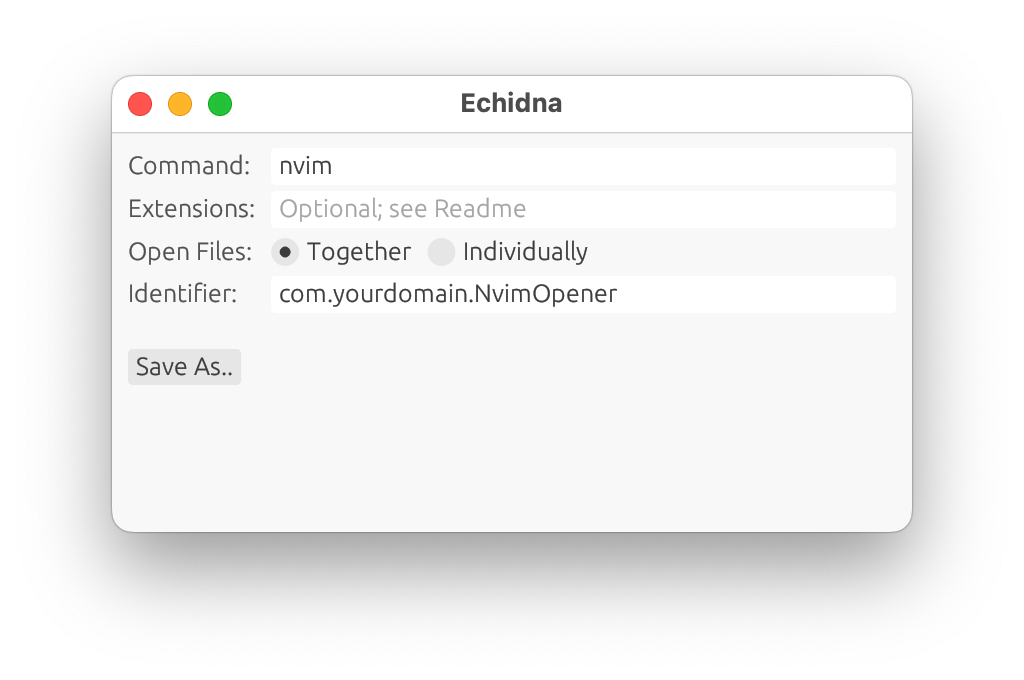
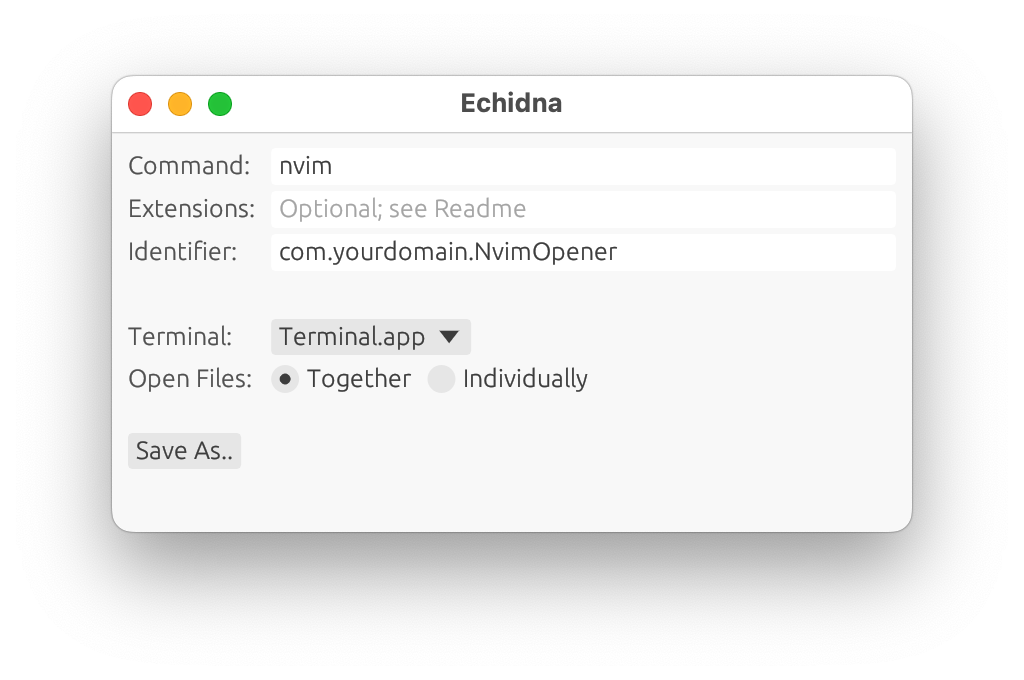
App: Moved Open Files radio buttons below with Terminal dropdown; updated screenshot and readme.

Changed region(s): [[0.125, 0.3397, 0.5938, 0.5868], [0.4688, 0.525, 0.5625, 0.5868], [0.125, 0.6485, 0.2188, 0.6794]]

diff --git a/src/app/app.rs b/src/app/app.rs
@@ -176,13 +176,6 @@ impl eframe::App for EchidnaApp {
                 });
                 ui.end_row();
 
-                ui.label("Open Files:");
-                ui.horizontal(|ui| {
-                    ui.radio_value(&mut self.group_by, GroupBy::All, "Together");
-                    ui.radio_value(&mut self.group_by, GroupBy::None, "Individually");
-                });
-                ui.end_row();
-
                 ui.label("Identifier:");
                 ui.centered_and_justified(|ui| {
                     if cmd_changed && !self.ident_ever_changed {
@@ -206,6 +199,14 @@ impl eframe::App for EchidnaApp {
                         }
                     }
                 });
+                ui.end_row();
+
+                ui.label("Open Files:");
+                ui.horizontal(|ui| {
+                    ui.radio_value(&mut self.group_by, GroupBy::All, "Together");
+                    ui.radio_value(&mut self.group_by, GroupBy::None, "Individually");
+                });
+                ui.end_row();
 
 
 

diff --git a/Readme.md b/Readme.md
@@ -14,10 +14,11 @@ Echidna is a Mac app for generating "shim applications" that allow opening files
 
 After launching Echidna, first fill out the fields:
 
-- **Command**: The terminal program to execute. The files, space-delimited, will be appended to this string and passed to the terminal. Only Bash-compatible commands are supported at the moment (due to the quoting required for the command and passed file paths).
-- **Extensions**: Optionally add extensions for the shim app to support. Adding extensions makes your shim app appear in the `Open With` menu for files with supported extensions, but will prevent files with other extensions from being dragged to your shim app. Files with other extensions can still be opened by double-clicking if your shim app is selected in the `Open With` -> `Other...` dialog (You may have to select `All Applications` in the `Enable` drop-down)
-- **Open Files: () Together, () Individually**: If multiple files are opened simultaneously, should they all be passed to a single instantiation to the command (space-delimited), or should each open in it's own window?
+- **Command:** The terminal program to execute. The files, space-delimited, will be appended to this string and passed to the terminal. Only Bash-compatible commands are supported at the moment (due to the quoting required for the command and passed file paths).
+- **Extensions:** Optionally add extensions for the shim app to support. Adding extensions makes your shim app appear in the `Open With` menu for files with supported extensions, but will prevent files with other extensions from being dragged to your shim app. Files with other extensions can still be opened by double-clicking if your shim app is selected in the `Open With` -> `Other...` dialog (You may have to select `All Applications` in the `Enable` drop-down)
 - **Identifier**: The bundle identifier for the shim app. This can be any unique string, but is usually a reverse URL withe app name as the final component.
+- **Terminal:** Select desired terminal application. Currently supported are Terminal.app and iTerm2.
+- **Open Files: () Together, () Individually:** If multiple files are opened simultaneously, should they all be passed to a single instantiation to the command (space-delimited), or should each open in it's own window?
 
 Then click `Save As..`, provide a file name and directory, and click `Save`. You can then set your shim app as the `Open With` handler, or launch it to provide a draggable target in the dock bar (no windows will appear after being launched, and launching isn't necessary for other use pattern).
 
